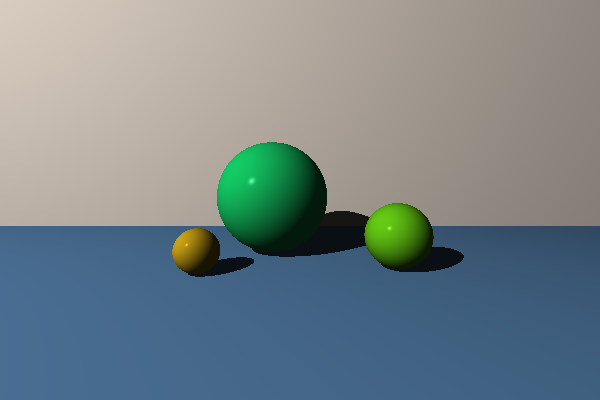
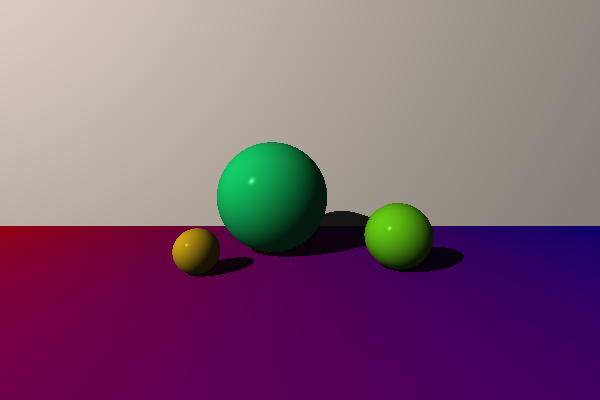
Add colours, add gradient pattern to floor

diff --git a/raytracer/Colour.hpp b/raytracer/Colour.hpp
@@ -39,6 +39,20 @@ namespace raytracer {
     static constexpr bool areAlmostEqual(const Colour& c1, const Colour& c2) {
         return utils::equal(c1.r, c2.r) && utils::equal(c1.g, c2.g) && utils::equal(c1.b, c2.b);
     }
+
+    // Common colours. In their own namespace so they don't clash with local names like `white`/`black`;
+    // use as colours::white, or bring them in with `using namespace raytracer::colours;`
+    namespace colours {
+        inline constexpr Colour black{.r = 0, .g = 0, .b = 0};
+        inline constexpr Colour white{.r = 1, .g = 1, .b = 1};
+        inline constexpr Colour red{.r = 1, .g = 0, .b = 0};
+        inline constexpr Colour green{.r = 0, .g = 1, .b = 0};
+        inline constexpr Colour blue{.r = 0, .g = 0, .b = 1};
+        inline constexpr Colour yellow{.r = 1, .g = 1, .b = 0};
+        inline constexpr Colour cyan{.r = 0, .g = 1, .b = 1};
+        inline constexpr Colour magenta{.r = 1, .g = 0, .b = 1};
+        inline constexpr Colour grey{.r = 0.5, .g = 0.5, .b = 0.5};
+    }
 }
 
 #endif //THE_RAYTRACER_CHALLENGE_COLOUR_HPP

diff --git a/raytracer/Simulation.cpp b/raytracer/Simulation.cpp
@@ -185,6 +185,9 @@ void simulate_multiple_spheres() {
     Plane floor{Plane::make_plane()};
     floor.m_material.colour = Colour{.r = 0.4f, .g = 0.6f, .b = 0.8f};
     floor.m_material.specular = 0.0f;
+    GradientPattern floor_pattern = GradientPattern::create(colours::red, colours::blue);
+    floor_pattern.m_transform = multiply(translation<double>(-10, 0, 0), scale<double>(20, 1, 1));
+    floor.m_material.pattern = floor_pattern;
 
     Plane backdrop{Plane::make_plane()};
     backdrop.set_transform(multiply(translation<double>(0, 0, 3.0), rotation_x(pi_v<double>/2)));
